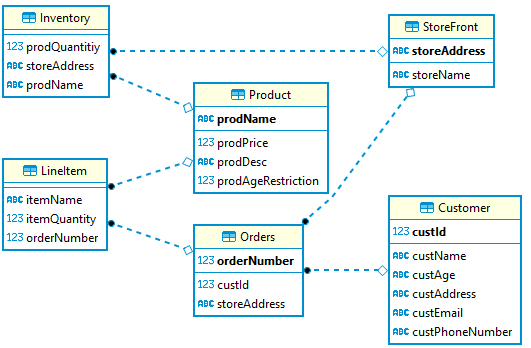
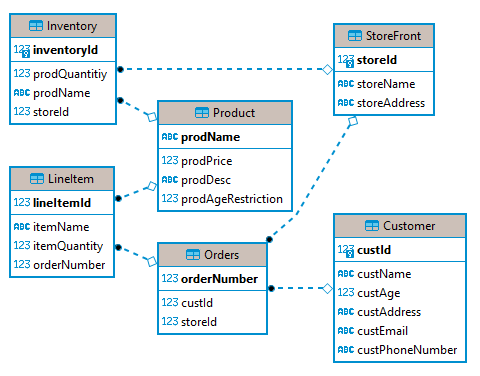
reworked the ER diagram and added sql implimentation of finding a customer

diff --git a/Shop Using SQL/ShopDL/SQLRepository.cs b/Shop Using SQL/ShopDL/SQLRepository.cs
@@ -19,7 +19,7 @@ namespace ShopDL
             //This is where you specify the sql statement required to do whatever operation you need based on the method
             //
             string sqlQuery = @"insert into Customer 
-                            values(@custId, @custName, @custAge, @custAddress, @custEmail,@custPhoneNumber)";
+                            values(@custName, @custAge, @custAddress, @custEmail,@custPhoneNumber)";
 
             //using block is different from our normal using statement
             //It is used to automatically close any resource you stated inside of the parenthesis
@@ -32,7 +32,7 @@ namespace ShopDL
                 //SqlCommand class is a class specialized in executing SQL statements
                 //Command will how the sqlQuery that will execute on the currently connection we have in the con object
                 SqlCommand command = new SqlCommand(sqlQuery, con);
-                command.Parameters.AddWithValue("@custId", c_cust.custId);
+                //command.Parameters.AddWithValue("@custId", c_cust.custId);
                 command.Parameters.AddWithValue("@custName", c_cust.Name);
                 command.Parameters.AddWithValue("@custAge", c_cust.Age);
                 command.Parameters.AddWithValue("@custAddress", c_cust.Address);
@@ -86,19 +86,15 @@ namespace ShopDL
             List<Customer> listOfCustomer = new List<Customer>();
 
             string sqlQuery = @"select * from Customer";
-
             using (SqlConnection con = new SqlConnection(_connectionStrings))
             {
                 //Opens connection to the database
                 con.Open();
-
                 //Create command object that has our sqlQuery and con object
                 SqlCommand command = new SqlCommand(sqlQuery, con);
-
                 //SqlDataReader is a class specialized in reading outputs that came from a sql statement
                 //Usually this outputs are in a form of a table and keep that in mind
                 SqlDataReader reader = command.ExecuteReader();
-
                 //Read() methods checks if you have more rows to go through
                 //If there is another row = true, if not = false
                 while (reader.Read())
@@ -113,9 +109,46 @@ namespace ShopDL
                         PhoneNumber = reader.GetString(5)
                     });
                 }
-            }
+            } 
 
             return listOfCustomer;
         }
+
+        /*
+        public StoreFront AddStore(StoreFront s_store)
+        {
+            //@ before the string will ignore special characters like \n
+            //This is where you specify the sql statement required to do whatever operation you need based on the method
+            //
+            string sqlQuery = @"insert into StoreFront 
+                            values(@custId, @custName, @custAge, @custAddress, @custEmail,@custPhoneNumber)";
+
+            //using block is different from our normal using statement
+            //It is used to automatically close any resource you stated inside of the parenthesis
+            //If an exception occurs, it will still automatically close any resources
+            using (SqlConnection con = new SqlConnection(_connectionStrings))
+            {
+                //Opens the connection to the database
+                con.Open();
+
+                //SqlCommand class is a class specialized in executing SQL statements
+                //Command will how the sqlQuery that will execute on the currently connection we have in the con object
+                SqlCommand command = new SqlCommand(sqlQuery, con);
+                command.Parameters.AddWithValue("@custId", c_cust.custId);
+                command.Parameters.AddWithValue("@custName", c_cust.Name);
+                command.Parameters.AddWithValue("@custAge", c_cust.Age);
+                command.Parameters.AddWithValue("@custAddress", c_cust.Address);
+                command.Parameters.AddWithValue("@custEmail", c_cust.Email);
+                command.Parameters.AddWithValue("@custPhoneNumber", c_cust.PhoneNumber);
+
+                //Executes the SQL statement
+                command.ExecuteNonQuery();
+            }
+
+            return c_cust;
+        }
+*/
+
+
     }
 }

diff --git a/Shop Using SQL/ShopUI/SearchCustomerMenu.cs b/Shop Using SQL/ShopUI/SearchCustomerMenu.cs
@@ -28,11 +28,11 @@ namespace ShopUI
             {
                 case "0":
                     return "MainMenu";
-                /*case "1":
-                Console.WriteLine("Enter PokeId:");
+                case "1":
+                Console.WriteLine("Enter Customer Id:");
                 try{
                     int custId = Convert.ToInt32(Console.ReadLine());
-                    List<Customer>listOfCustomer = _custBL.GetCustomerByCustId(custId);
+                    List<Customer>listOfCustomer = _custBL.SearchCustomerFromId(custId);
                     foreach(var item in listOfCustomer){
                         Console.WriteLine("=========");
                         Console.WriteLine(item);
@@ -47,7 +47,7 @@ namespace ShopUI
                     Console.WriteLine("Please press enter to continue.");
                     Console.ReadLine();
                     return "SearchCustomer";
-                }*/
+                }
                 case "2":
                     //Logic to grab user input
                     Console.WriteLine("Please enter a phone number in \"XXX-XXX-XXXX\" format: ");

diff --git a/Shop Using SQL/ShopUI/Program.cs b/Shop Using SQL/ShopUI/Program.cs
@@ -34,11 +34,11 @@ while(repeat){
             break;
         case "AddStore":
             Log.Information("Adding stores");
-            menu = new AddStoreFrontMenu(new StoreFrontBL(new StoreFrontRepository()));
+            menu = new AddStoreFrontMenu(new StoreFrontBL(new SQLCustomerRepository(_connectionString)));
             break;
         case "SearchCustomer":
             Log.Information("Displaying SearchPokemon Menu to user");
-            menu = new SearchCustomerMenu(new CustomerBL(new CustomerRepository()));
+            menu = new SearchCustomerMenu(new CustomerBL(new SQLCustomerRepository(_connectionString)));
             break; 
         case "AddCustomer":
             menu = new AddCustomerMenu(new CustomerBL(new SQLCustomerRepository(_connectionString)));

diff --git a/Shop Using SQL/ShopBL/CustomerBL.cs b/Shop Using SQL/ShopBL/CustomerBL.cs
@@ -30,7 +30,13 @@ namespace ShopBL{
         }
         
 
-        
+        public List<Customer> SearchCustomerFromId(int c_Id){
+            List<Customer> listOfCustomers = _repo.GetAllCustomer();
+            // LINQ library
+            return listOfCustomers
+                        .Where(cust => cust.custId == c_Id)
+                        .ToList();
+        }
         public List<Customer> SearchCustomer(string c_name){
             List<Customer> listOfCustomers = _repo.GetAllCustomer();
             // LINQ library

diff --git a/Shop Using SQL/ShopBL/IShopBL.cs b/Shop Using SQL/ShopBL/IShopBL.cs
@@ -5,7 +5,7 @@ namespace ShopBL
     
     public interface ICustomerBL {
         Customer AddCustomer (Customer c_cust);
-        //public List<Customer> GetCustomerByCustId(int c_custId);
+        public List<Customer> SearchCustomerFromId(int c_custId);
 
         List<Customer> SearchCustomer(string c_name);
         List<Customer> SearchCustomerFromNumber(string c_pnum);
